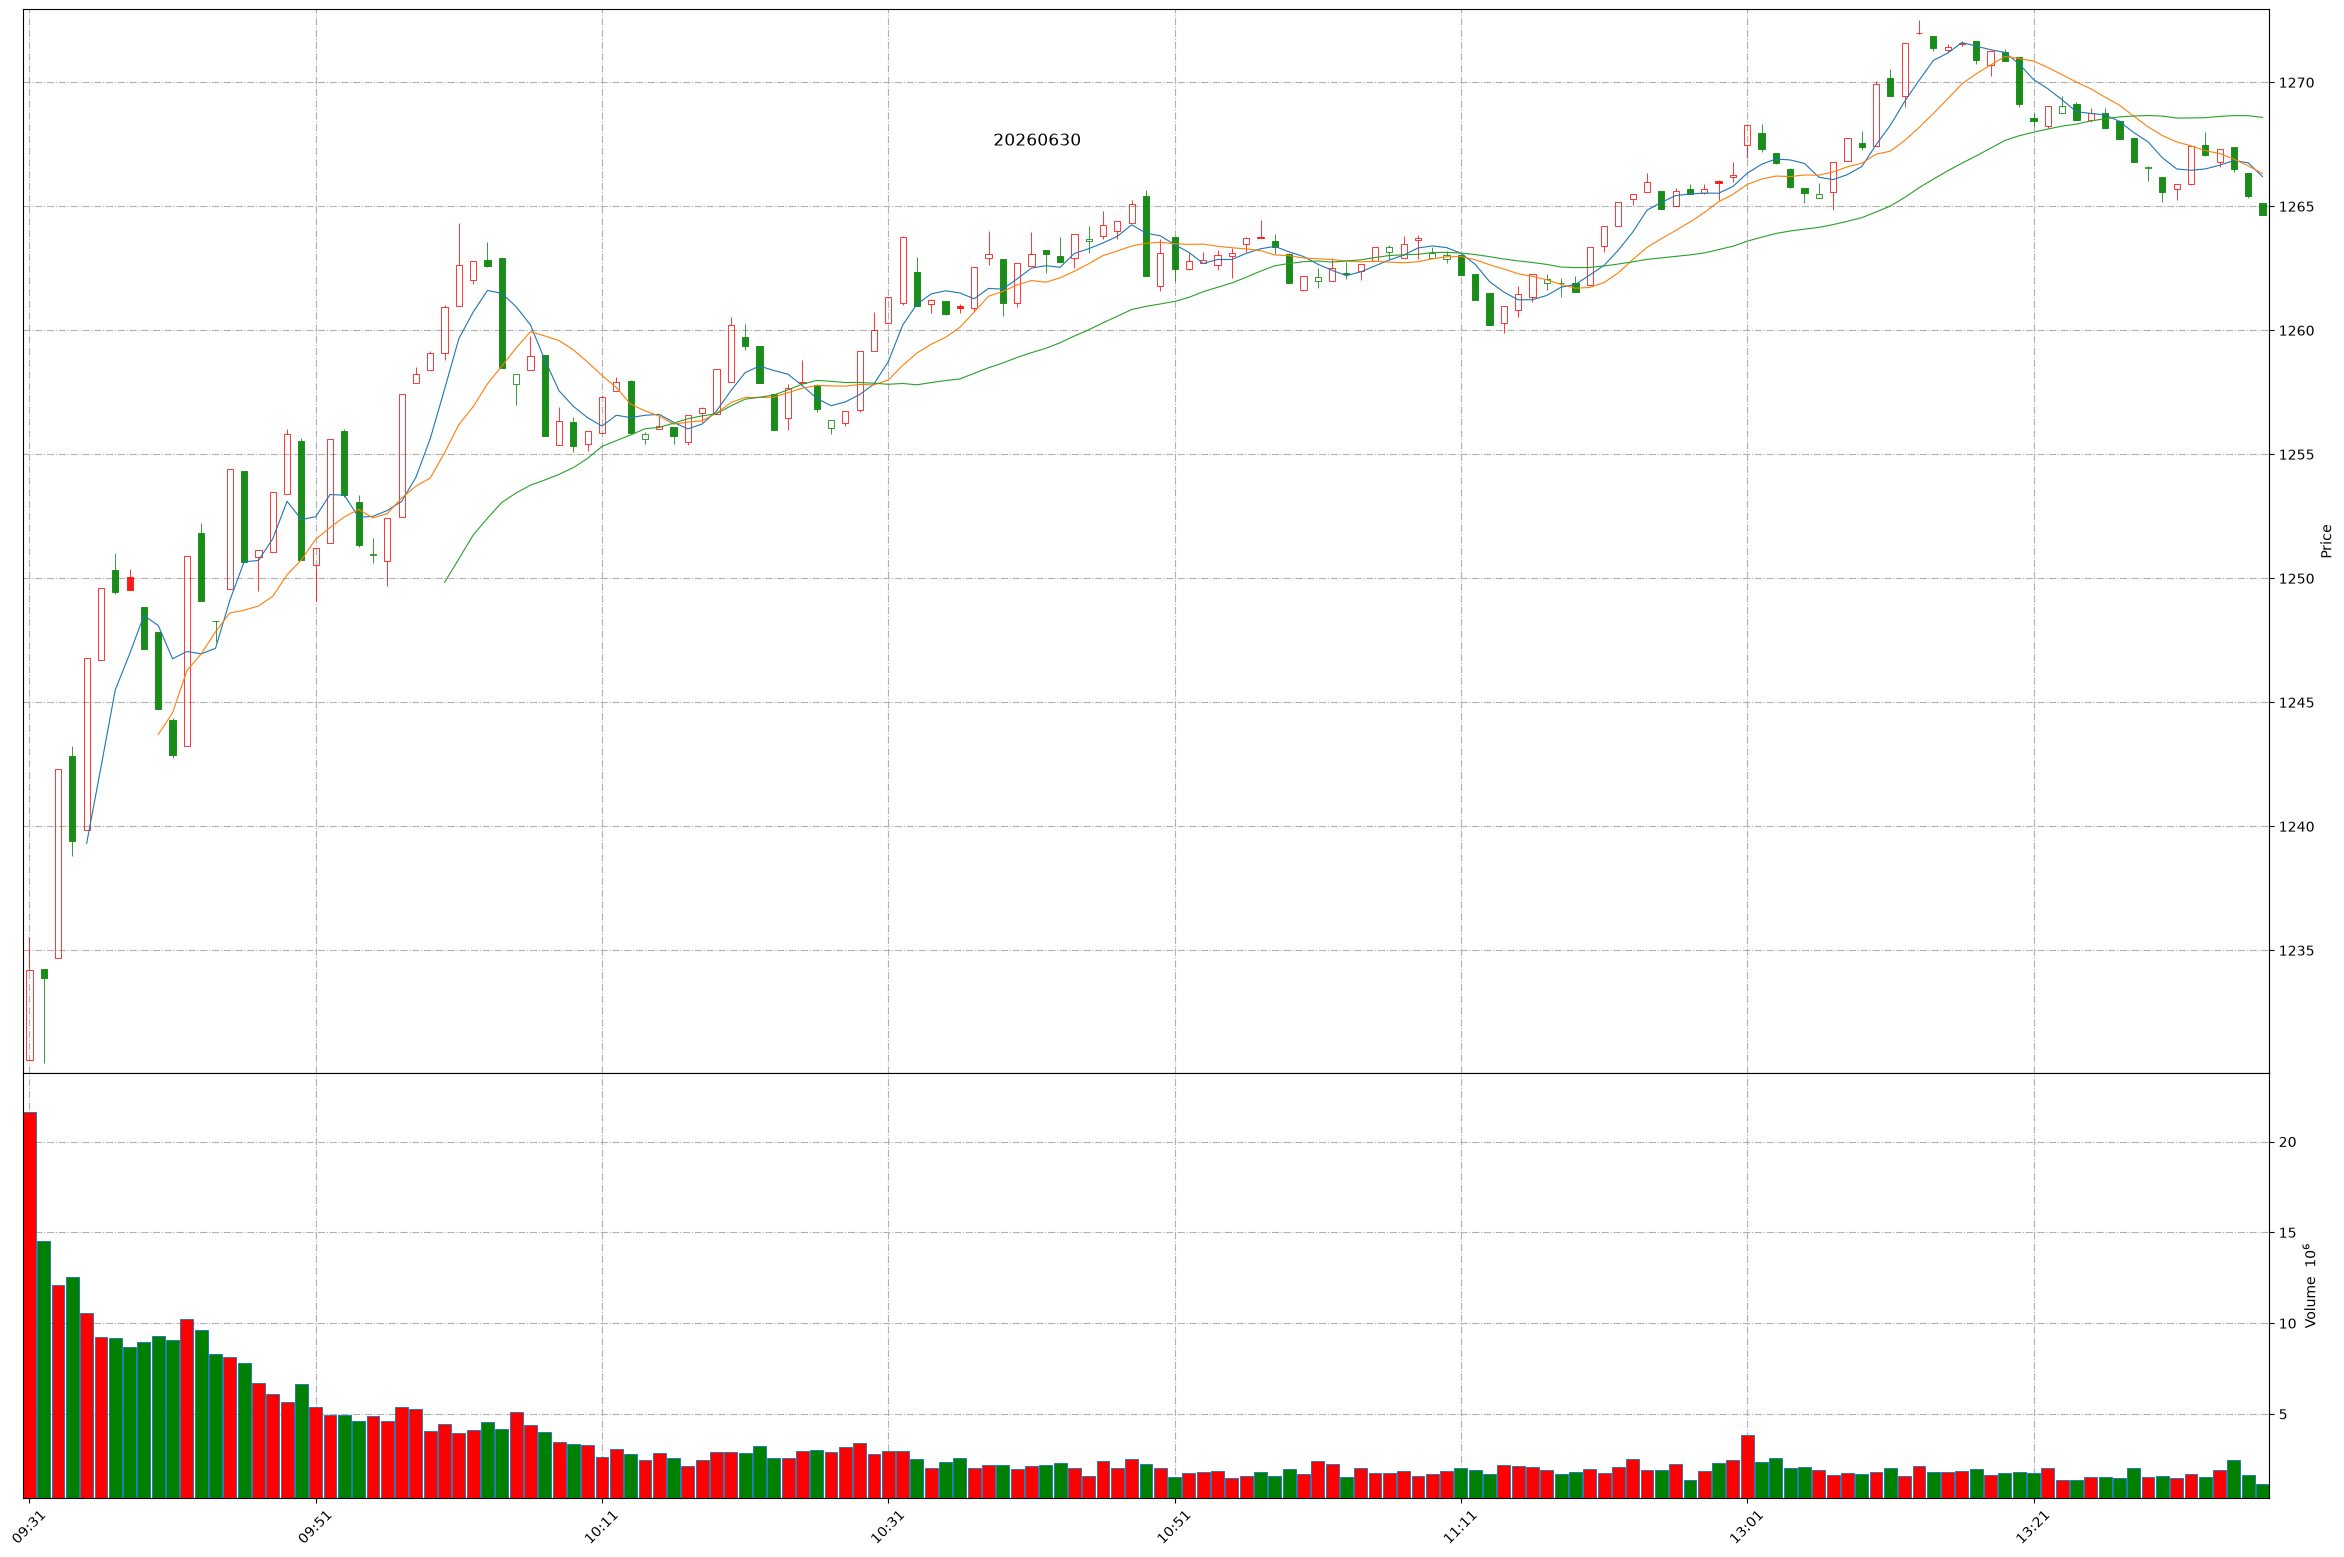
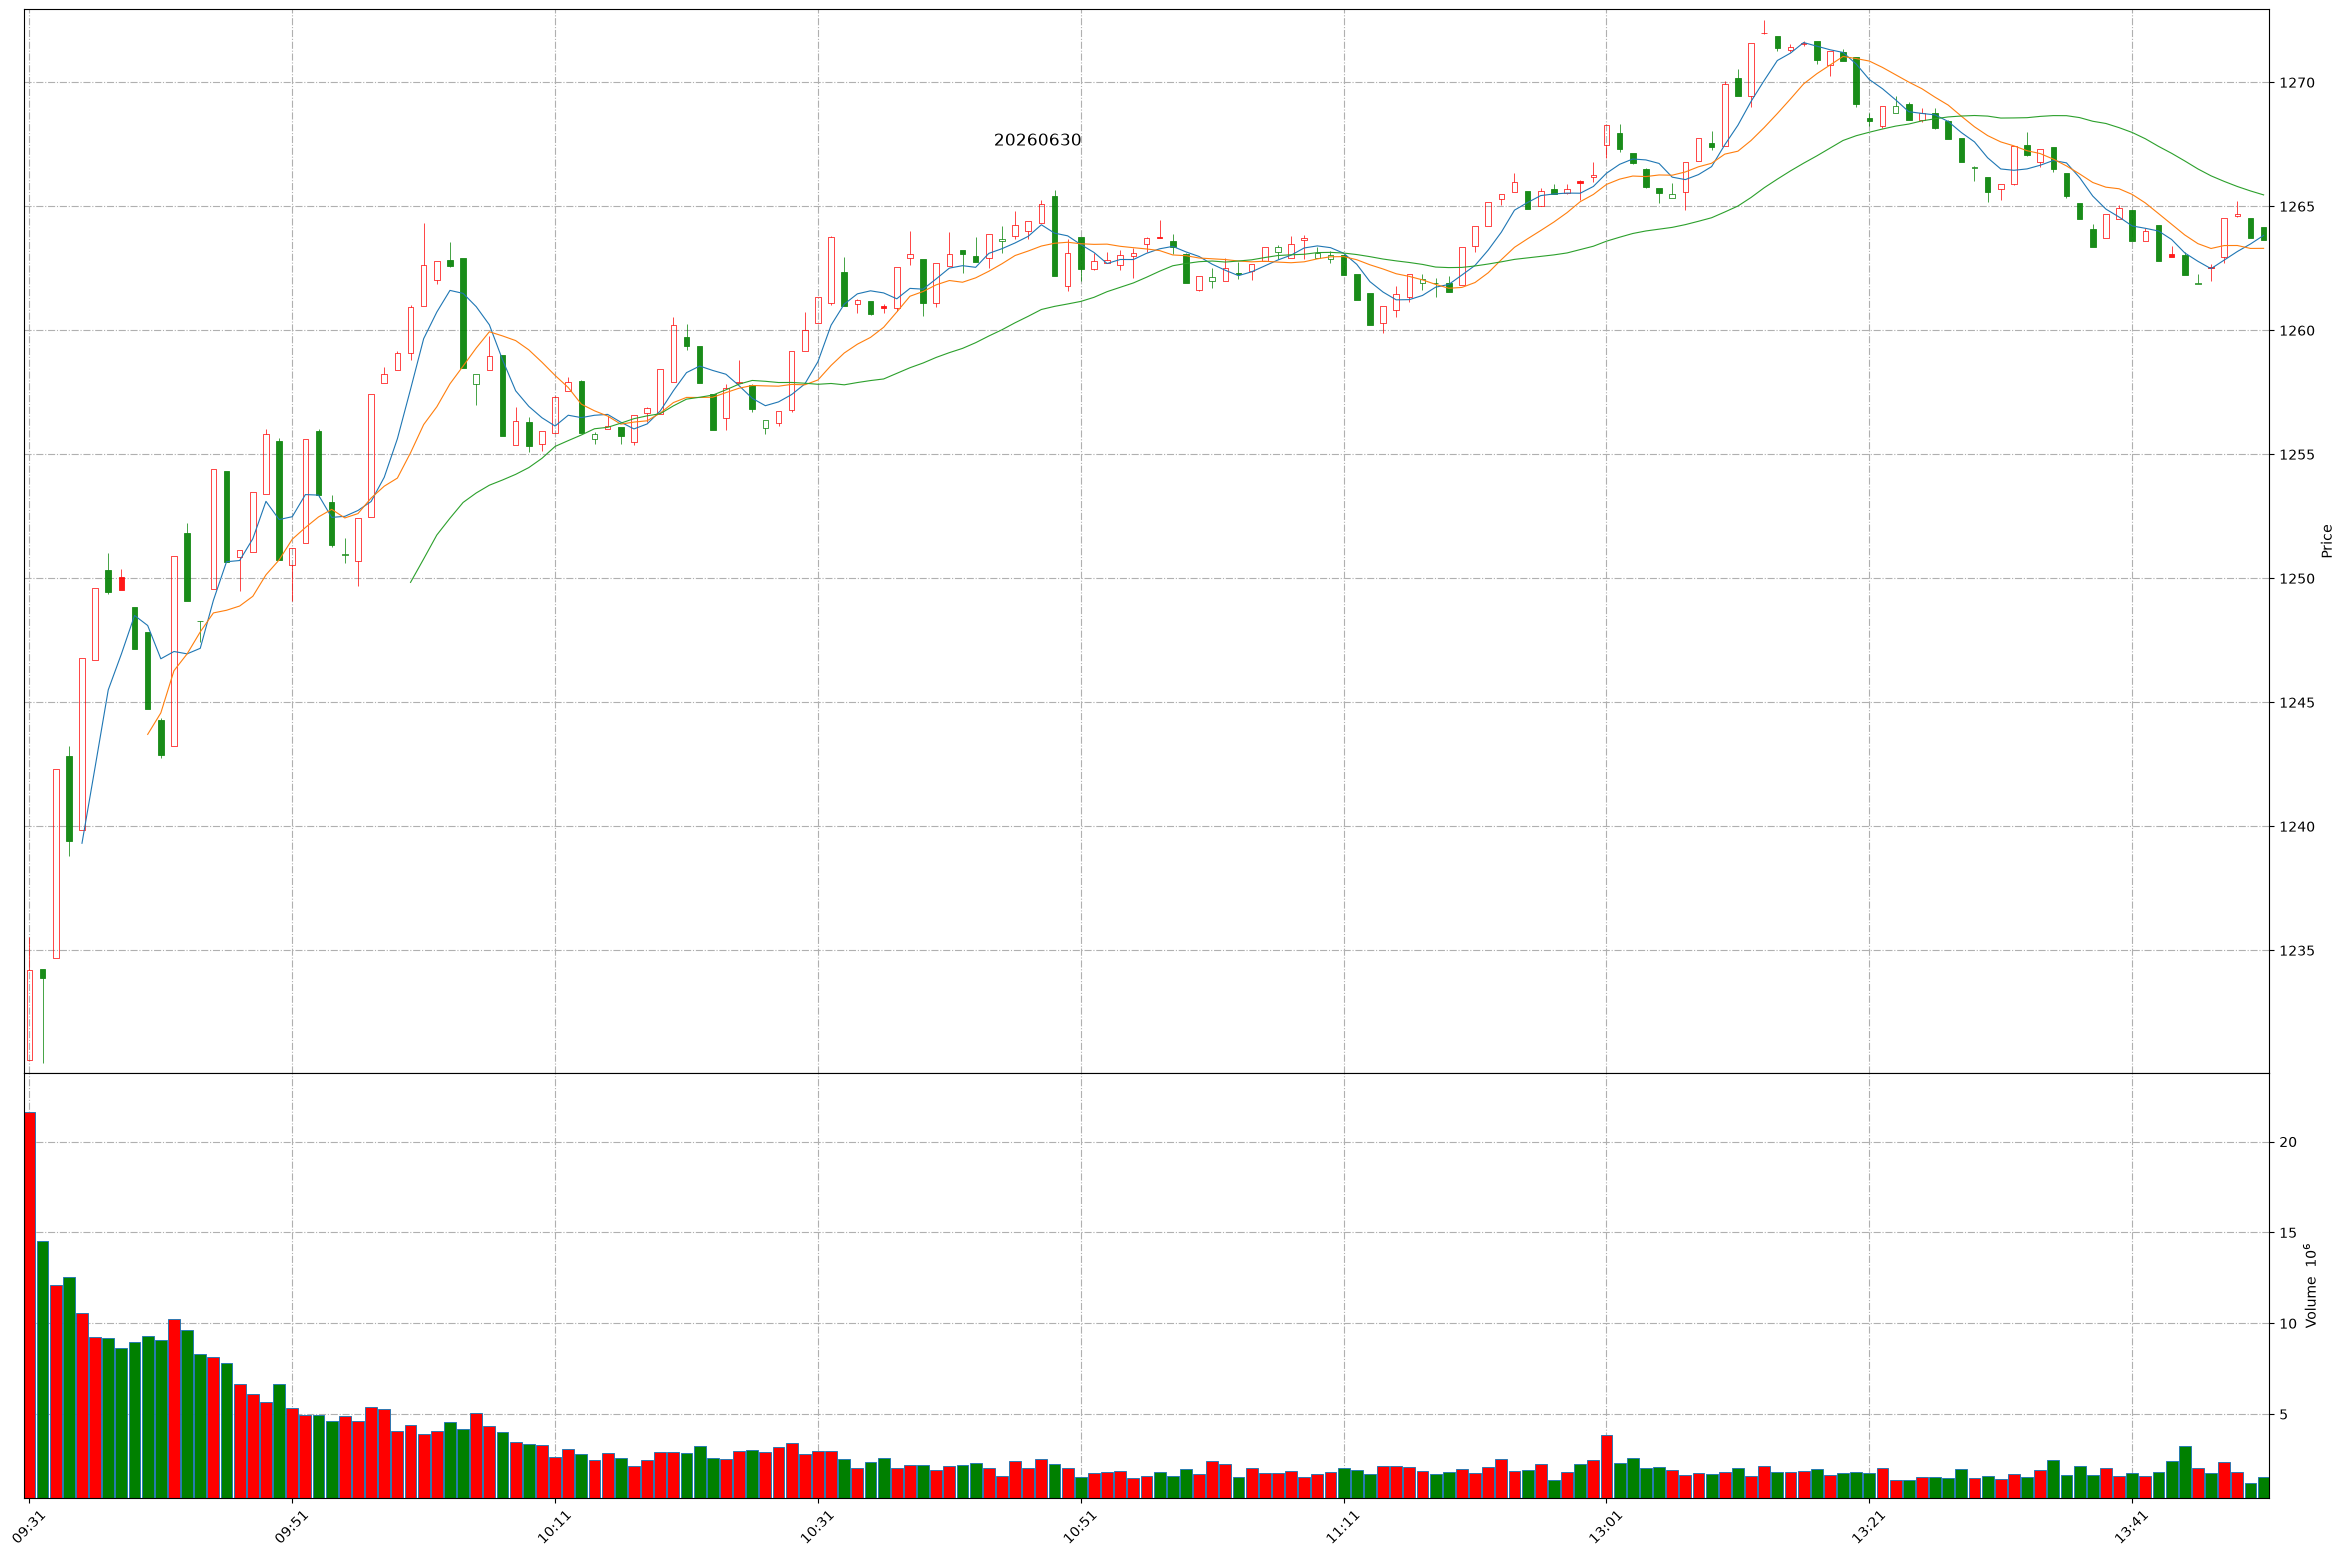
Github action update at 2026-06-30 13:51:18.

Changed region(s): [[0.0, 0.0308, 0.9654, 0.5549], [0.0, 0.8015, 0.9654, 0.9865], [0.0, 0.6474, 0.0311, 0.6782]]

diff --git a/README.md b/README.md
@@ -1,11 +1,11 @@
 
 # Daily-A-share-market-quotes 每日 A 股指数（5min 更新）- 20260630
 
-### 上证指数 20260630 13:36
+### 上证指数 20260630 13:51
 ![](./fig/2026/6/20260630-sh000001.png)
 
-### 深证成指 20260630 13:36
+### 深证成指 20260630 13:51
 ![](./fig/2026/6/20260630-sz399001.png)
 
-### 北证50 20260630 13:36
+### 北证50 20260630 13:51
 ![](./fig/2026/6/20260630-bj899050.png)
